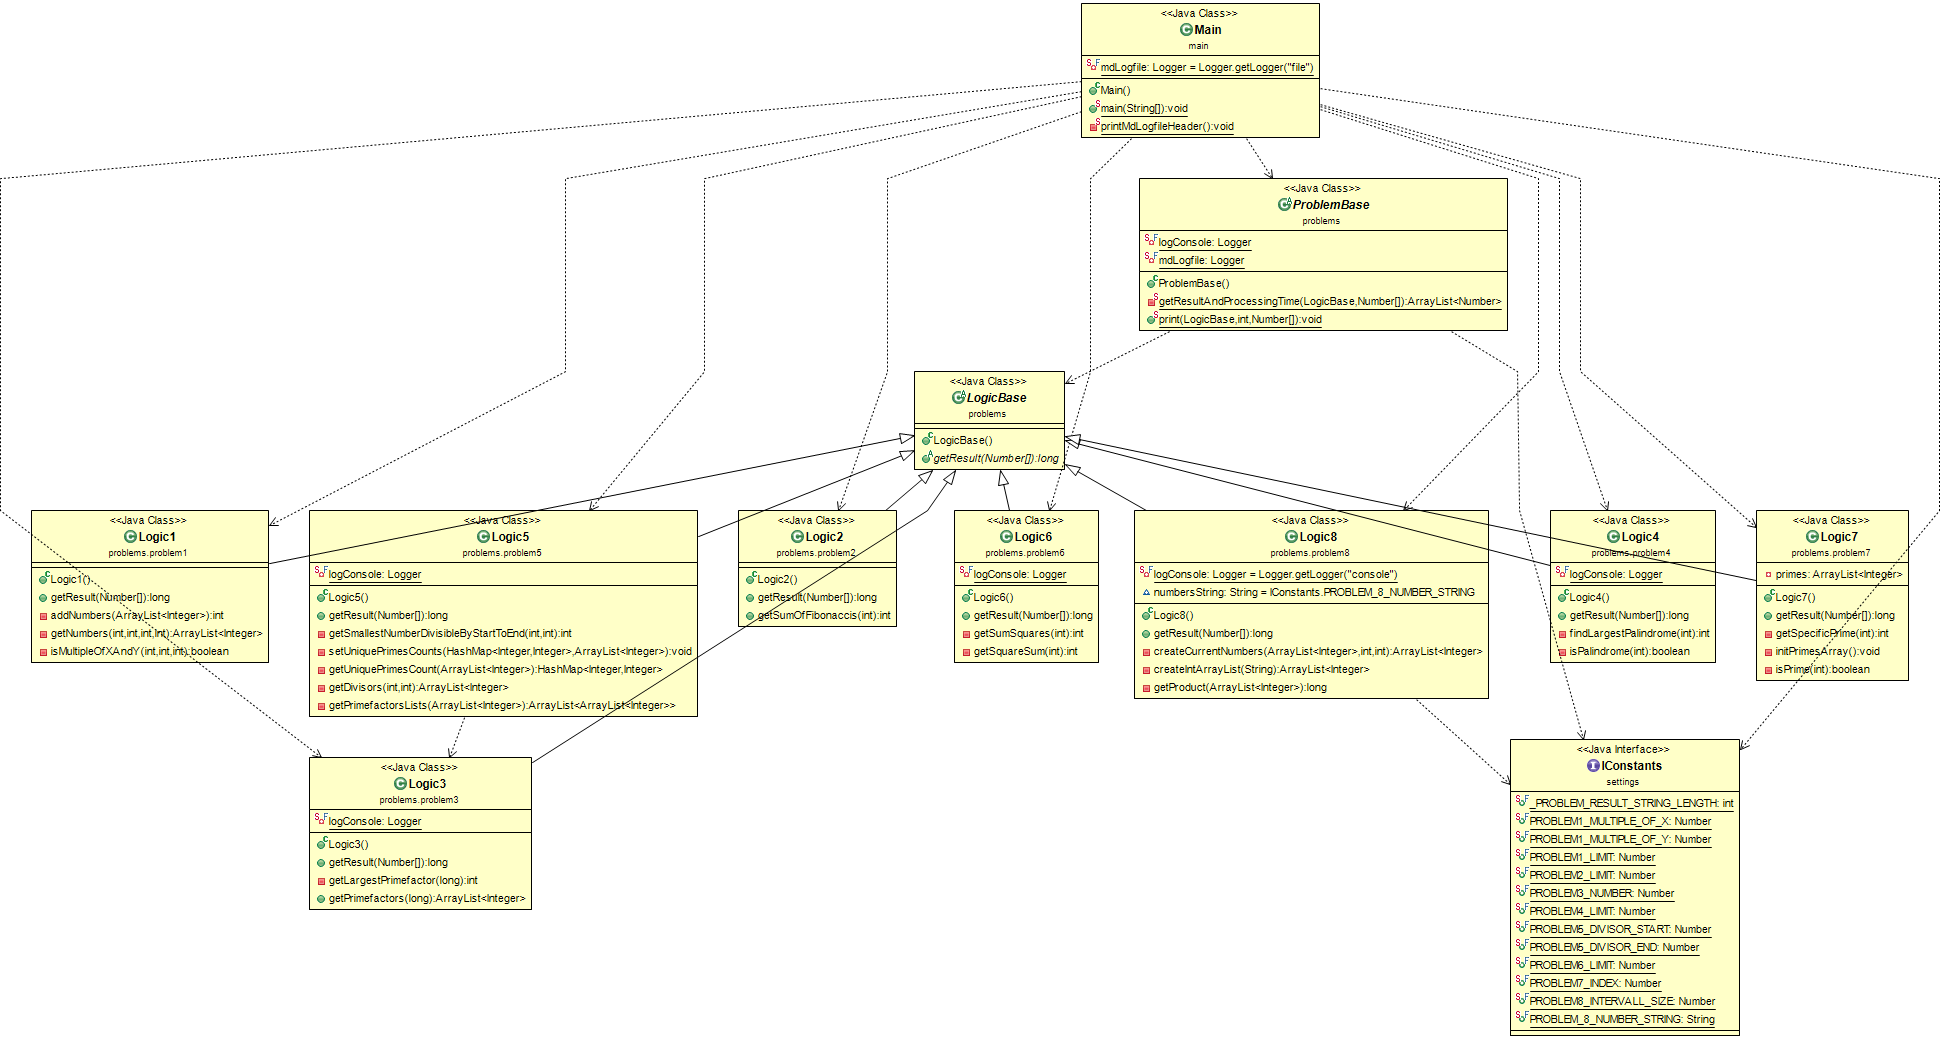
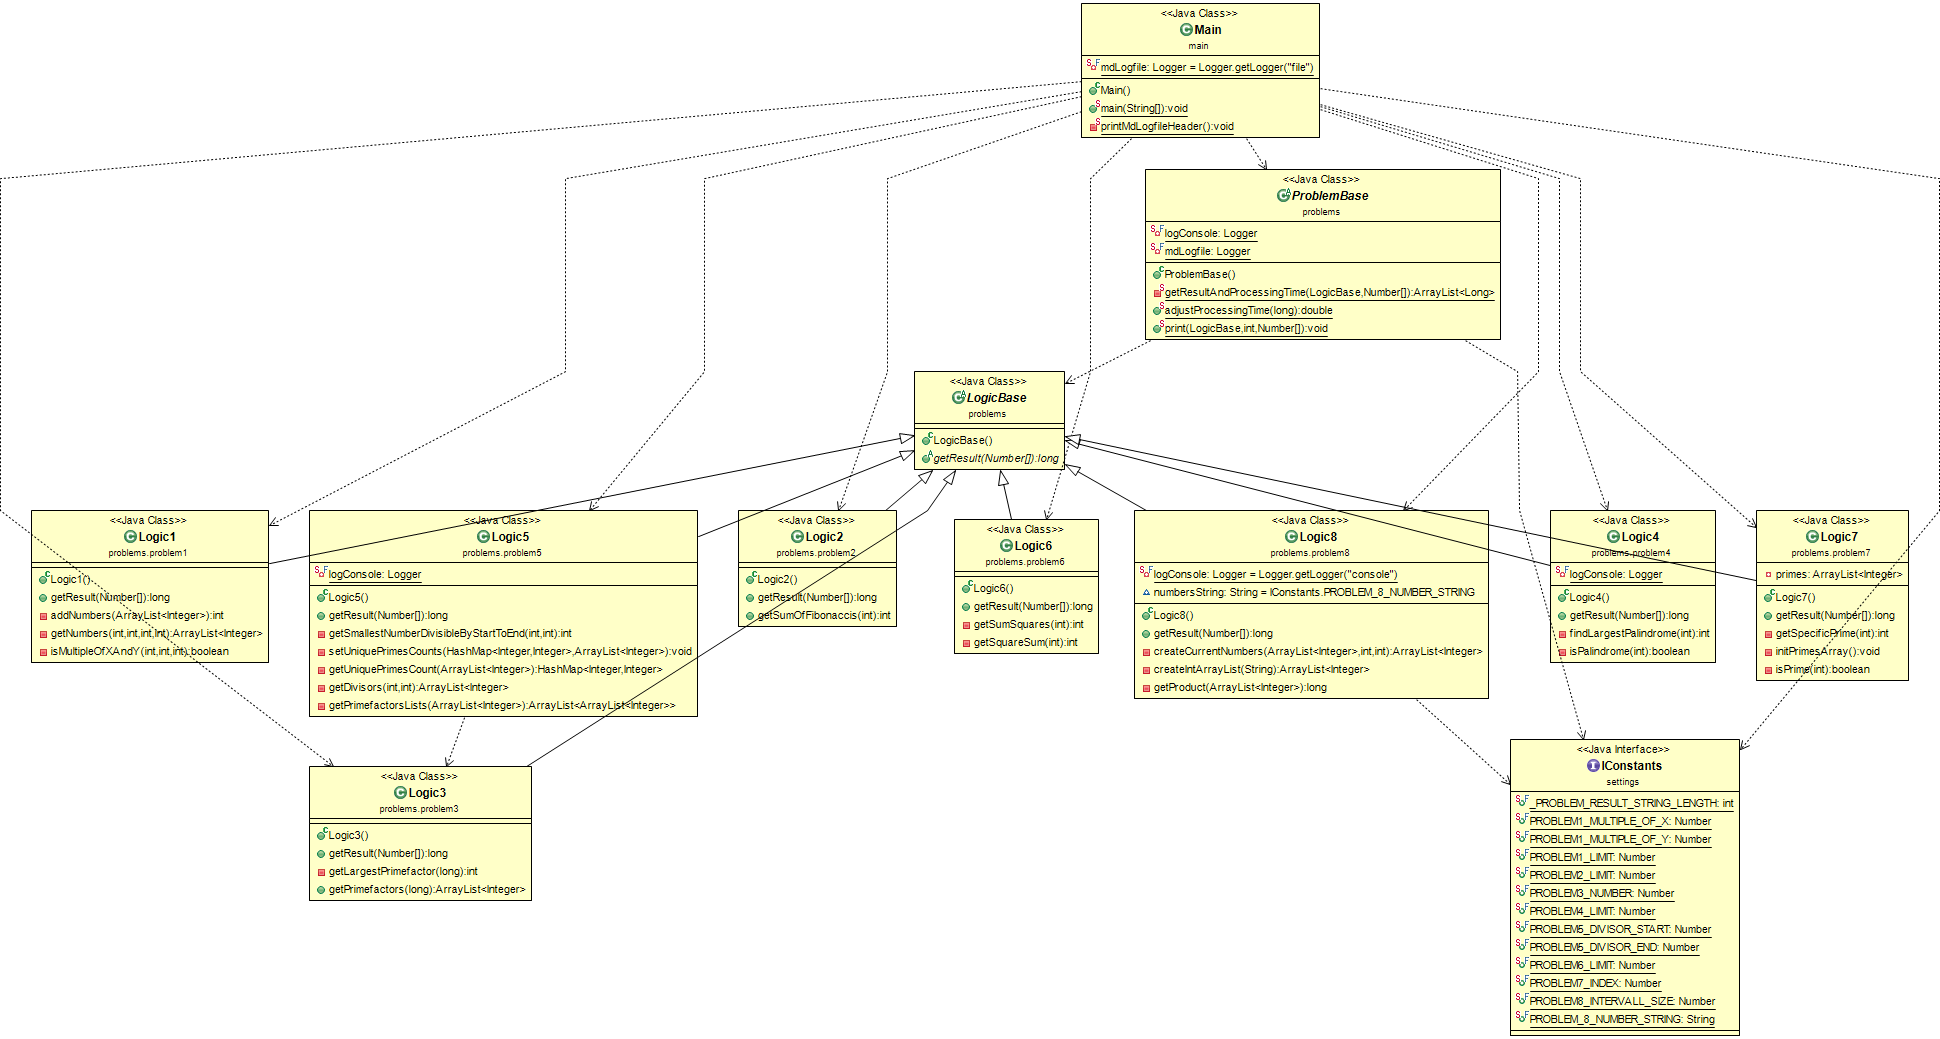
#mod refactoring to clear warnings

Changed region(s): [[0.5876, 0.154, 0.8041, 0.3388], [0.1546, 0.7084, 0.2784, 0.8932], [0.4948, 0.4928, 0.5567, 0.6468]]

diff --git a/ProjectEuler/src/main/java/problems/problem3/Logic3.java b/ProjectEuler/src/main/java/problems/problem3/Logic3.java
@@ -2,16 +2,12 @@ package problems.problem3;
 
 import java.util.ArrayList;
 
-import org.apache.log4j.Logger;
-
 import problems.LogicBase;
 
 //The prime factors of 13195 are 5, 7, 13 and 29.
 //What is the largest prime factor of the number 600851475143 ?
 
 public class Logic3 extends LogicBase {
-
-  private static final Logger logConsole = Logger.getLogger("console");
 
   @Override
   public long getResult(Number... numbers) {

diff --git a/ProjectEuler/src/main/java/problems/problem6/Logic6.java b/ProjectEuler/src/main/java/problems/problem6/Logic6.java
@@ -1,7 +1,5 @@
 package problems.problem6;
 
-import org.apache.log4j.Logger;
-
 import problems.LogicBase;
 
 
@@ -15,8 +13,6 @@ import problems.LogicBase;
 
 
 public class Logic6 extends LogicBase {
-
-  private static final Logger logConsole = Logger.getLogger("console");
   
   @Override
   public long getResult(Number... numbers) {

diff --git a/ProjectEuler/src/main/java/problems/problem4/Logic4.java b/ProjectEuler/src/main/java/problems/problem4/Logic4.java
@@ -2,8 +2,6 @@ package problems.problem4;
 
 import org.apache.log4j.Logger;
 
-import com.sun.xml.internal.ws.util.StringUtils;
-
 import problems.LogicBase;
 
 //A palindromic number reads the same both ways. The largest palindrome made from the product of two 2-digit numbers is 9009 = 91 � 99.

diff --git a/ProjectEuler/src/main/java/problems/ProblemBase.java b/ProjectEuler/src/main/java/problems/ProblemBase.java
@@ -5,7 +5,6 @@ import java.util.ArrayList;
 import org.apache.log4j.Logger;
 
 import settings.IConstants;
-import sun.security.provider.certpath.AdjacencyList;
 
 public abstract class ProblemBase {
   private static final Logger logConsole = Logger.getLogger("console");

diff --git a/ProjectEuler/src/main/java/problems/problem5/Logic5.java b/ProjectEuler/src/main/java/problems/problem5/Logic5.java
@@ -3,8 +3,6 @@ package problems.problem5;
 import java.util.ArrayList;
 import java.util.HashMap;
 
-import javax.print.attribute.standard.PrinterMessageFromOperator;
-
 import org.apache.log4j.Logger;
 
 import problems.LogicBase;

diff --git a/ProjectEuler/logLastRun.md b/ProjectEuler/logLastRun.md
@@ -1,11 +1,11 @@
 #Project Euler
 |Problem | Result | Processing Time (seconds)|
 |---:| ---:| ---:|
-| 1|233168    |0,000298821000|
-| 2|4613732   |0,000050439000|
-| 3|6857      |0,000268323000|
-| 4|906609    |0,005621877000|
-| 5|232792560 |0,000721979000|
-| 6|25164150  |0,000009091000|
-| 7|104743    |0,193815906000|
-| 8|23514624000|0,001603192000|
+| 1|233168    |0,000312310000|
+| 2|4613732   |0,000024633000|
+| 3|6857      |0,000235186000|
+| 4|906609    |0,003796988000|
+| 5|232792560 |0,000797344000|
+| 6|25164150  |0,000009090000|
+| 7|104743    |0,186652712000|
+| 8|23514624000|0,001613456000|
